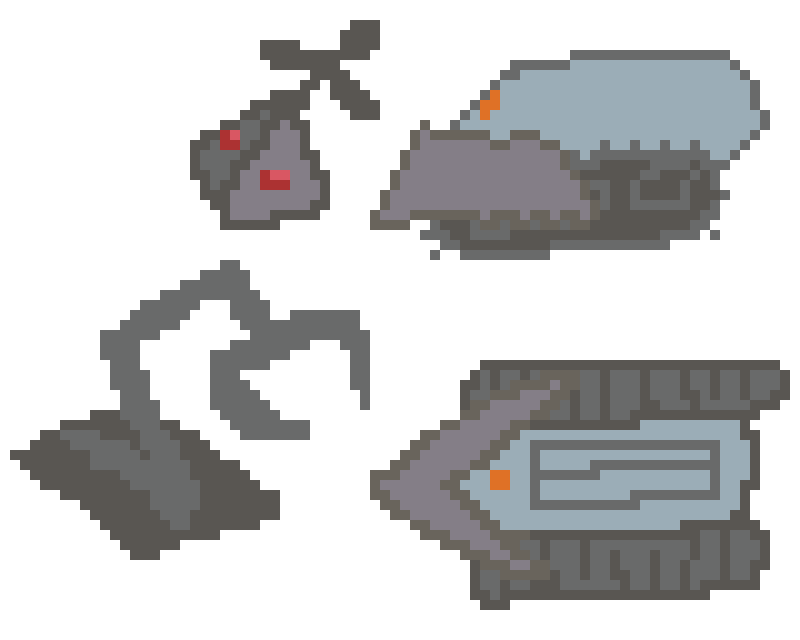
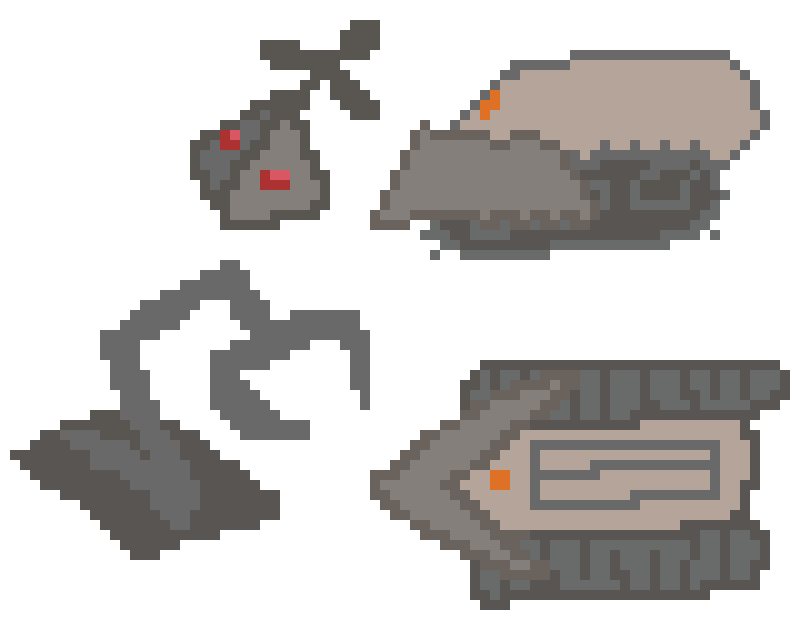
Commit from @user on 22.07.2026, 18:24:30

Changed region(s): [[0.5625, 0.6562, 0.9375, 0.8438], [0.5625, 0.0938, 0.9688, 0.25]]

diff --git a/locations/docks/pier.md b/locations/docks/pier.md
@@ -5,7 +5,7 @@
 # Описание
 ---
 >  
->  Хорошо защищенный секретный пирс, на который приплывают роботорговцы с разных уголков мира и с разными намерениями. корабли приплывают строго по договоренности и по расписанию. Здесь также пришвартованы катера крысиной мафии.
+>  Хорошо защищенный секретный пирс, на который приплывают роботорговцы с разных уголков мира и с разными намерениями. корабли приплывают строго по договоренности и по расписанию. Здесь также пришвартованы катера крысиной мафии. В данный момент в порту пришвартованы мыши-пираты и устраивают вечеринку.
 >  
 
 # Враги
@@ -21,6 +21,7 @@
 ---
 
 * ###  Причал ^2320da
+	*  **Взаимодействовать** --> Спрятаться в бочке
 	*  **Взаимодействовать** --> Отвязать катер
 	
 * ###  На воде ^c8abe2

diff --git a/characters/enemies/enemies.md b/characters/enemies/enemies.md
@@ -33,7 +33,7 @@
 * ###  [[tennis-ball-cannon#Описание|Теннисная пушка]]
 * ###  [[ranger-rat#Описание|Крыса с рогаткой]]
 * ###  [[pressure-tube-mouse#Описание|Мышь с пневматикой]]
-* ###  [[harpooner-mouse#Описание|Мышь-гарпунщик]]
+* ###  [[seawolf#Описание|Морской волк]]
 * ###  [[dart-drone#Описание|Стреляющий дрон]]
 * ###  [[heat-ray-turret#Описание|Лучевая турель]]
 

diff --git a/index.md b/index.md
@@ -105,7 +105,7 @@
 	*  [[kamikaze-drone#Описание|дрон камикадзе]]
 	*  [[heavy-guardian#Описание|тяжелый стражник]]
 	*  [[whipper-bot#Описание|бот-хлестатель]]
-	*  [[harpooner-mouse#Описание|мышь-гарпунщик]]
+	*  [[seawolf#Описание|морской волк]]
 	*  [[feral-drone|дикий дрон]]
 	*  [[dart-drone|стреляющий дрон]]
 	*  [[heat-ray-turret|лучевая турель]]

diff --git a/characters/mice.md b/characters/mice.md
@@ -18,6 +18,7 @@
 	
 * ###  Враги
 	*  [[pressure-tube-mouse#Описание|Мышь с пневматикой]]
+	*  [[seawolf|Морской волк]]
 	
 * ###  Боссы
 	*  [[police-chief-boss#Альтернативная форма|Начальник полиции (босс)]]